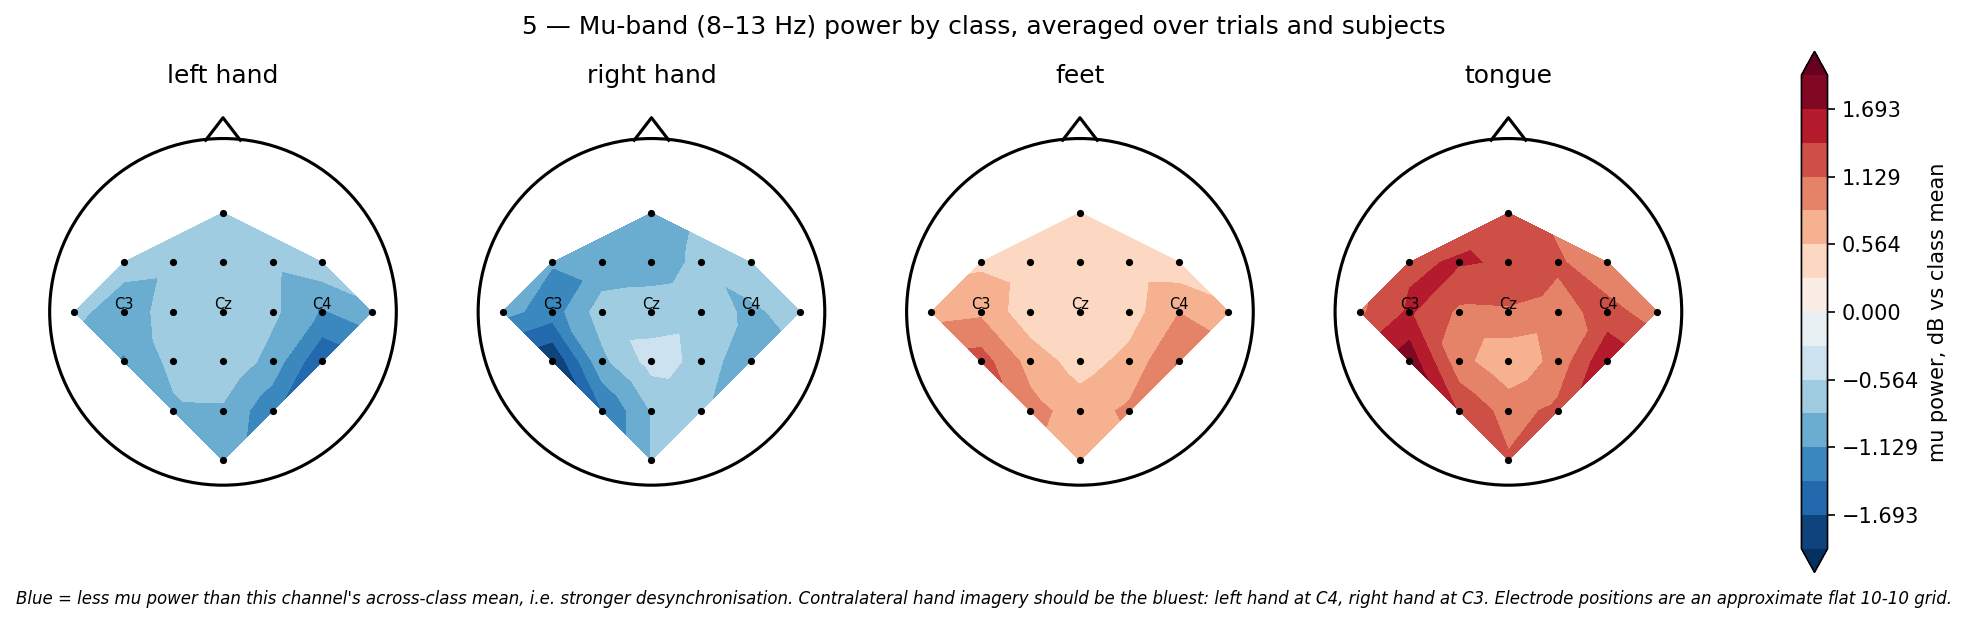
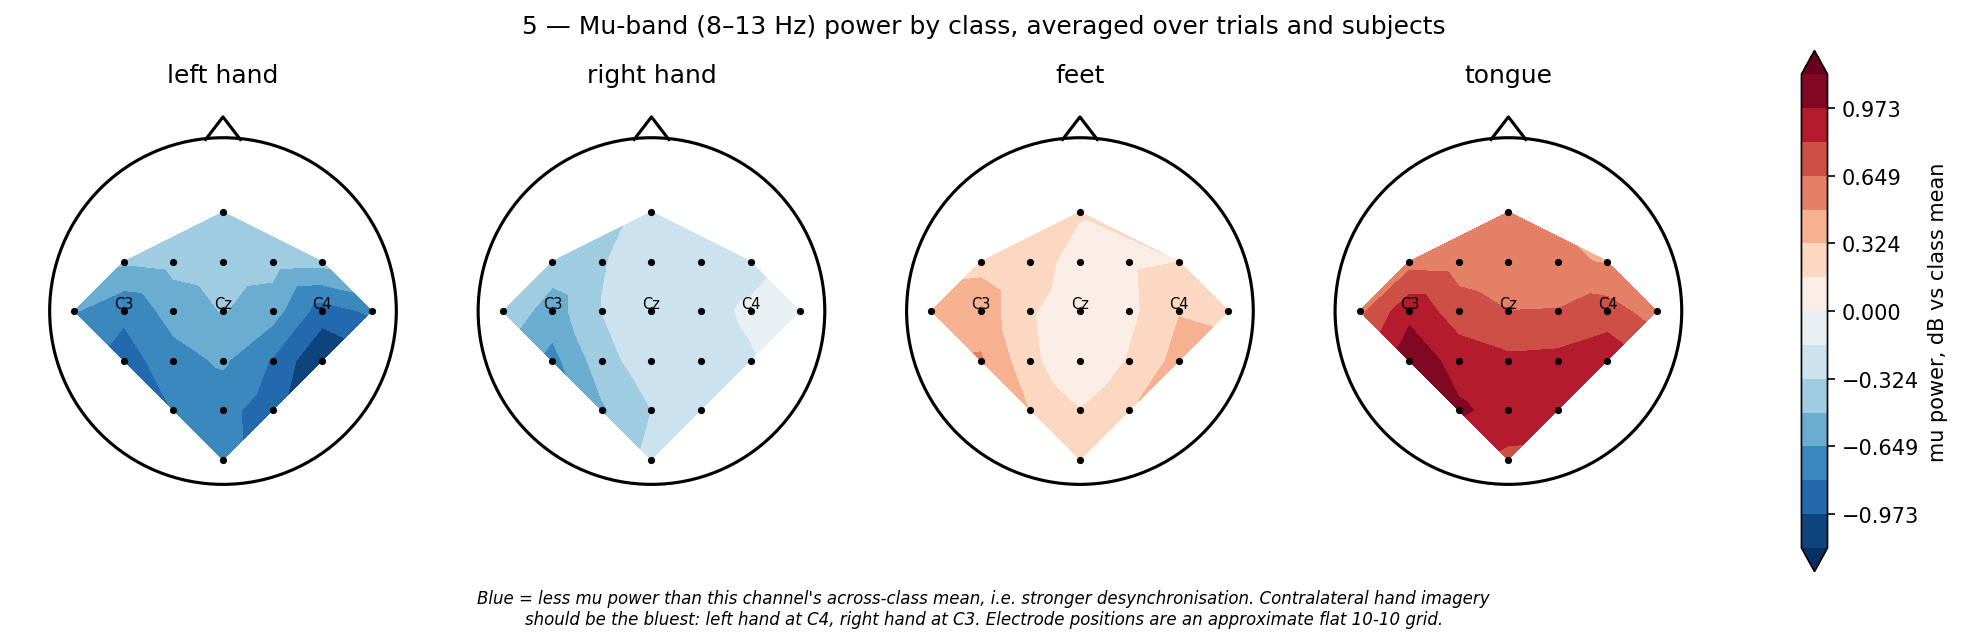
M1 complete: ERD resolved, all seven Table 10.1 analyses pass or are explained
explore.py: analysis 4 baselines against the inter-trial rest and splits by
class -- contralateral ERD at 0.33 s (right hand, C3) and 0.46 s (left hand,
C4), matching the expected 'roughly 0.5 s'. Analysis 7 adds nearest-centroid
subject recovery (46.8% -> 22.9% after alignment, chance 11.1%), because
silhouette goes negative on overlapping clusters and read as 'no subject
structure'.

fbcsp.py: feature budget k=16, matching the reference algorithm's 4 features
per one-vs-rest classifier. 64.6% against 67.8% published. The window and
artefact-rejection explanations were measured and refuted.

diff --git a/phase3/explore.py b/phase3/explore.py
@@ -15,6 +15,7 @@ Subjects whose raw files are not downloaded yet are skipped with a message.
 """
 import sys
 from pathlib import Path
+from textwrap import fill
 
 import matplotlib
 matplotlib.use("Agg")
@@ -38,12 +39,17 @@ CHANNELS = ("Fz", "FC3", "FC1", "FCz", "FC2", "FC4", "C5", "C3", "C1", "Cz", "C2
             "C4", "C6", "CP3", "CP1", "CPz", "CP2", "CP4", "P1", "Pz", "P2", "POz")
 C3, CZ, C4 = 7, 9, 11
 MOTOR = [C3, CZ, C4]
+K3, KZ, K4 = 0, 1, 2          # the same three channels, as positions within MOTOR
+LEFT, RIGHT = 0, 1            # class indices into CLASSES
 MU = (8.0, 13.0)
-ERD_WINDOW = (-2.0, 4.0)      # seconds relative to the cue; -2.0 s is the trial onset
-ERD_BASE = (-1.5, -0.5)       # fixation period, before the cue appears
-# Measured on A01: mu power bottoms out at about -1.36 s, i.e. inside ERD_BASE. The
-# warning tone at trial onset (-2.0 s) desynchronises mu, so this window is not a true
-# rest reference and analysis 4 reports how far off it is rather than hiding it.
+ERD_WINDOW = (-3.0, 4.0)      # seconds relative to the cue; -3.0 s is 1.0 s BEFORE trial onset
+ERD_BASE = (-3.0, -2.5)       # inter-trial break: the only genuine rest in the paradigm
+# The cue sits 2.0 s after the trial index, trials are 7.67-8.5 s apart (min 1917 samples),
+# and the previous trial's imagery ends 6.0 s after ITS index. So -3.0 s relative to our cue
+# lands at least 0.67 s after the previous trial's imagery ended and 1.0 s before our own
+# warning tone. The obvious-looking -1.5..-0.5 s fixation window is NOT rest: measured on A01,
+# mu bottoms out at about -1.36 s because the warning tone at trial onset desynchronises it,
+# so baselining there turns the whole post-cue period into an apparent power increase.
 
 # ponytail: flat 10-10 grid, not a real spherical projection — good enough to read
 # left/right lateralisation off. Swap for mne.channels montage positions if a
@@ -63,7 +69,10 @@ def verdict(ok, line):
 def save(fig, name, caption=""):
     EDA.mkdir(exist_ok=True)
     if caption:
-        fig.text(0.5, -0.02, caption, ha="center", va="top", fontsize=8, style="italic")
+        # Wrapped, because bbox_inches="tight" widens the whole figure to fit a long
+        # single-line caption and squeezes the plots into the middle of it.
+        fig.text(0.5, -0.02, fill(caption, 120), ha="center", va="top", fontsize=8,
+                 style="italic")
     fig.savefig(EDA / f"{name}.png", dpi=150, bbox_inches="tight")
     plt.close(fig)
 
@@ -107,20 +116,26 @@ def available():
 def a1_counts(D):
     """Trial counts and class balance per subject. Expect 576/subject, 144/class."""
     counts = {s: np.bincount(d[1], minlength=4) for s, d in D.items()}
+    kept = {s: np.bincount(d[1][~d[3]], minlength=4) for s, d in D.items()}
     x = np.arange(len(D))
     fig, ax = plt.subplots(figsize=(max(6, 1.1 * len(D) + 3), 4))
     for c in range(4):
-        ax.bar(x + (c - 1.5) * 0.2, [counts[s][c] for s in D], 0.2, label=CLASSES[c])
+        pos = x + (c - 1.5) * 0.2
+        ax.bar(pos, [counts[s][c] for s in D], 0.2, color=f"C{c}", alpha=0.35)
+        ax.bar(pos, [kept[s][c] for s in D], 0.2, color=f"C{c}", label=CLASSES[c])
     ax.axhline(144, color="k", ls="--", lw=1, label="expected 144")
     ax.set_xticks(x, [f"A{s:02d}" for s in D])
     ax.set(ylabel="trials", title="1 — Trial counts and class balance per subject "
-                                  "(all trials, before artefact rejection)")
+                                  "(faded = all trials, solid = surviving artefact rejection)")
     ax.legend(fontsize=8, ncol=5)
     save(fig, "01_counts")
 
     bad = [f"A{s:02d}={list(c)}" for s, c in counts.items() if not (c == 144).all()]
+    lo_s = min(kept, key=lambda s: kept[s].min())
     verdict(not bad, f"1 counts/balance: {len(D)} subject(s), "
-                     f"{'all 576 trials and 144 per class' if not bad else 'OFF: ' + ', '.join(bad)}")
+                     f"{'all 576 trials and 144 per class' if not bad else 'OFF: ' + ', '.join(bad)}"
+                     f"; after rejection the thinnest class-subject cell is A{lo_s:02d} "
+                     f"{CLASSES[kept[lo_s].argmin()]} {kept[lo_s].min()}/144")
 
 
 def a2_rejection(D):
@@ -134,10 +149,13 @@ def a2_rejection(D):
     ax.legend(fontsize=8)
     save(fig, "02_rejection")
 
-    bad = [f"A{s:02d} {r:.1f}%" for s, r in rate.items() if r >= 15]
-    verdict(not bad, f"2 rejection rate: mean {np.mean(list(rate.values())):.1f}%, "
-                     f"max {max(rate.values()):.1f}% "
-                     f"({'all under 15%' if not bad else 'OVER 15%: ' + ', '.join(bad)})")
+    worst = max(rate, key=rate.get)
+    bad = [f"A{s:02d} {rate[s]:.1f}% (rejected per class "
+           f"{np.bincount(D[s][1][D[s][3]], minlength=4).tolist()} of 144 each)"
+           for s in D if rate[s] >= 15]
+    verdict(not bad, f"2 rejection rate: mean {np.mean(list(rate.values())):.1f}%, worst "
+                     f"A{worst:02d} {rate[worst]:.1f}% "
+                     f"({'all under 15%' if not bad else 'OVER 15%: ' + '; '.join(bad)})")
 
 
 def a3_psd(D):
@@ -178,57 +196,76 @@ def a3_psd(D):
 
 
 def a4_erd(D):
-    """ERD at C3/Cz/C4 against a pre-cue baseline. Expect mu-band power reduction.
+    """ERD per class at C3/Cz/C4 against the inter-trial rest baseline.
 
     Re-epoched from the raw .mat over ERD_WINDOW, because the cached epochs start
-    0.5 s after the cue and so carry no baseline to normalise against.
+    0.5 s after the cue and so carry no baseline to normalise against. Split by
+    class: ERD is lateralised, so pooling the four classes cancels most of it.
     """
     S, f, t = 0.0, None, None
     for s in D:
         parts = [load_session(s, k, window=ERD_WINDOW) for k in SESSIONS]
-        X = np.concatenate([p[0][~p[2]] for p in parts]).astype(np.float64)
-        f, t, Sxx = spectrogram(X[:, MOTOR], FS, nperseg=128, noverlap=96, axis=-1)
-        S = S + Sxx.mean(0)                                   # (3, nf, nt)
+        X = np.concatenate([p[0][~p[2]][:, MOTOR] for p in parts]).astype(np.float64)
+        y = np.concatenate([p[1][~p[2]] for p in parts])
+        f, t, Sxx = spectrogram(X, FS, nperseg=128, noverlap=96, axis=-1)
+        S = S + np.stack([Sxx[y == c].mean(0) for c in range(4)])   # (4, 3, nf, nt)
     S /= len(D)
     t = t + ERD_WINDOW[0]                                     # seconds relative to the cue
     base = (t >= ERD_BASE[0]) & (t <= ERD_BASE[1])
     db = 10 * np.log10(S / S[..., base].mean(-1, keepdims=True))
     band = (f >= 4) & (f <= 38)
-    vlim = np.abs(db[:, band]).max()
+    vlim = np.abs(db[:2, :, band]).max()
 
-    fig, axes = plt.subplots(1, 3, figsize=(12, 4), sharey=True)
-    for k, (ax, ch) in enumerate(zip(axes, MOTOR)):
-        m = ax.pcolormesh(t, f[band], db[k][band], cmap="RdBu_r", vmin=-vlim, vmax=vlim,
-                          shading="gouraud")
-        ax.axvspan(*ERD_BASE, color="k", alpha=0.10, lw=0)
-        ax.axhspan(*MU, color="k", alpha=0.08)
-        ax.axvline(0, color="k", lw=1.2)
-        ax.set(xlabel="s relative to cue", title=CHANNELS[ch])
-    axes[0].set_ylabel("Hz")
-    fig.colorbar(m, ax=axes, label="dB vs pre-cue baseline")
-    fig.suptitle("4 — Event-related desynchronisation at C3/Cz/C4 (mu band 8–13 Hz shaded)")
+    fig, axes = plt.subplots(2, 3, figsize=(12, 6.5), sharex=True, sharey=True)
+    for row, c in enumerate((LEFT, RIGHT)):
+        for k, ax in enumerate(axes[row]):
+            m = ax.pcolormesh(t, f[band], db[c, k][band], cmap="RdBu_r", vmin=-vlim, vmax=vlim,
+                              shading="gouraud")
+            ax.axvspan(*ERD_BASE, color="k", alpha=0.10, lw=0)
+            ax.axhspan(*MU, color="k", alpha=0.08)
+            ax.axvline(0, color="k", lw=1.2)
+            ax.set_title(f"{CLASSES[c]} at {CHANNELS[MOTOR[k]]}", fontsize=9)
+    for ax in axes[1]:
+        ax.set_xlabel("s relative to cue")
+    for ax in axes[:, 0]:
+        ax.set_ylabel("Hz")
+    fig.colorbar(m, ax=axes, label="dB vs inter-trial rest")
+    fig.suptitle("4 — Event-related desynchronisation by class (mu band 8–13 Hz shaded)")
     save(fig, "04_timefreq",
-         f"Cue at t = 0 (vertical line); baseline is the {ERD_BASE[0]} to {ERD_BASE[1]} s "
-         f"fixation period (shaded column). Blue inside the shaded mu band after the cue is "
-         f"event-related desynchronisation. Re-epoched from the raw .mat over "
-         f"{ERD_WINDOW[0]} to {ERD_WINDOW[1]} s relative to the cue — the cached 0.5–4.0 s "
-         f"analysis window has no pre-cue baseline of its own.")
+         f"The contralateral contrast is the diagonal: right-hand imagery should desynchronise "
+         f"C3 and left-hand imagery C4. Cue at t = 0 (vertical line); baseline is the "
+         f"{ERD_BASE[0]} to {ERD_BASE[1]} s inter-trial rest (shaded column), which falls after "
+         f"the previous trial's imagery and before this trial's warning tone. Blue inside the "
+         f"shaded mu band after the cue is ERD. Re-epoched from the raw .mat over "
+         f"{ERD_WINDOW[0]} to {ERD_WINDOW[1]} s relative to the cue; the cached 0.5–4.0 s "
+         f"analysis window has no baseline of its own.")
 
-    mu = db[:, (f >= MU[0]) & (f <= MU[1])].mean(1)           # (3, nt)
+    mu = db[:, :, (f >= MU[0]) & (f <= MU[1])].mean(2)        # (4, 3, nt)
     post, pre = t >= 0.5, (t >= -0.5) & (t < 0)
-    level, trough = mu[:, post].mean(1), mu[:, post].min(1)
-    hits = [t[(t >= 0) & (mu[k] <= -1.0)] for k in range(3)]
-    first = [f"{h[0]:.2f} s" if len(h) else "never" for h in hits]
-    ok = (level < 0).all()
-    verdict(ok, f"4 ERD vs the {ERD_BASE[0]}..{ERD_BASE[1]} s pre-cue baseline: mean mu power "
-                f"after 0.5 s is C3 {level[0]:+.2f} dB, Cz {level[1]:+.2f}, C4 {level[2]:+.2f} "
-                f"(troughs {trough[0]:+.2f}/{trough[1]:+.2f}/{trough[2]:+.2f} dB); first below "
-                f"-1 dB at {first[0]} / {first[1]} / {first[2]} after the cue - "
-                f"{'desynchronisation at all three channels' if ok else 'NOT below baseline at all three'}. "
-                f"Reference: the last 0.5 s BEFORE the cue is already "
-                f"{mu[0, pre].mean():+.2f}/{mu[1, pre].mean():+.2f}/{mu[2, pre].mean():+.2f} dB "
-                f"vs the same baseline - if those are positive the baseline window is itself "
-                f"desynchronised by the trial-onset warning tone and is not a rest reference")
+
+    def summary(c, k):
+        # Two latencies: against the rest baseline, and against this channel's own pre-cue
+        # level. The first fires immediately whenever the warning-tone ERD has already taken
+        # mu past -1 dB before the cue, so only the second is a cue-locked onset.
+        hit = t[(t >= 0) & (mu[c, k] <= -1.0)]
+        cue = t[(t >= 0) & (mu[c, k] <= mu[c, k, pre].mean() - 1.0)]
+        return (f"{CLASSES[c]} at {CHANNELS[MOTOR[k]]} {mu[c, k, post].mean():+.2f} dB "
+                f"(trough {mu[c, k, post].min():+.2f}, first below -1 dB at "
+                f"{f'{hit[0]:.2f} s' if len(hit) else 'never'}, first 1 dB below its own "
+                f"pre-cue level at {f'{cue[0]:.2f} s' if len(cue) else 'never'})")
+
+    contra = [(RIGHT, K3), (LEFT, K4)]                        # right hand at C3, left hand at C4
+    ipsi = [(RIGHT, K4), (LEFT, K3)]
+    ok = all(mu[c, k, post].mean() < 0 for c, k in contra)
+    verdict(ok, f"4 ERD vs the {ERD_BASE[0]}..{ERD_BASE[1]} s inter-trial rest baseline, mean mu "
+                f"power after 0.5 s - CONTRALATERAL: {'; '.join(summary(*p) for p in contra)} "
+                f"| IPSILATERAL: {'; '.join(summary(*p) for p in ipsi)} "
+                f"| feet {mu[2, :, post].mean():+.2f} dB and tongue {mu[3, :, post].mean():+.2f} dB "
+                f"pooled over C3/Cz/C4 "
+                f"| the last 0.5 s BEFORE the cue is {mu[:, K3, pre].mean():+.2f}/"
+                f"{mu[:, KZ, pre].mean():+.2f}/{mu[:, K4, pre].mean():+.2f} dB at C3/Cz/C4 "
+                f"(all classes) vs the same baseline, so residual baseline contamination stays "
+                f"visible - {'both contralateral cases below baseline' if ok else 'NOT both contralateral cases below baseline'}")
 
 
 def head(ax, z, title, levels):
@@ -321,28 +358,41 @@ def a7_proj(D):
         aligned.append(np.log(align(X).var(-1)))
         subject.append(np.full(len(X), s))
     subject = np.concatenate(subject)
+    ids = np.array(list(D))
+
+    def recovery(F):
+        """Percent of trials assigned to their own subject's centroid, chance = 100/len(D)."""
+        centroid = np.stack([F[subject == s].mean(0) for s in ids])
+        return 100 * (ids[np.argmin(((F[:, None] - centroid) ** 2).sum(-1), 1)] == subject).mean()
 
     fig, axes = plt.subplots(1, 2, figsize=(11, 4.8))
-    scores = []
+    scores, acc = [], []
     for ax, feats, name in zip(axes, (raw, aligned),
                                ("before alignment", "after Euclidean alignment")):
-        Z = PCA(2).fit_transform(np.concatenate(feats))
+        F = np.concatenate(feats)
+        Z = PCA(2).fit_transform(F)
         scores.append(silhouette_score(Z, subject))
+        acc.append(recovery(F))
         for s in D:
             ax.scatter(*Z[subject == s].T, s=3, alpha=0.4, label=f"A{s:02d}")
         ax.set(xlabel="PC1", ylabel="PC2",
-               title=f"{name}\nsilhouette by subject {scores[-1]:+.3f}")
+               title=f"{name}\nsilhouette {scores[-1]:+.3f}, subject recoverable {acc[-1]:.1f}%")
     axes[1].legend(fontsize=7, markerscale=3, ncol=2)
     fig.suptitle("7 — PCA of per-channel log-variance, coloured by subject")
     save(fig, "07_projection",
-         "Silhouette is computed on the 2-D projection shown, over subject labels: higher "
-         "means trials separate by subject, which is exactly the nuisance structure the "
-         "alignment is meant to remove.")
+         f"Two measures of the same thing, both over subject labels. Silhouette (on the 2-D "
+         f"projection shown) measures separation and goes negative whenever clusters overlap, "
+         f"which nine real subjects do. Nearest-subject-centroid recovery (on the full 22-D "
+         f"features, chance {100 / len(D):.1f}%) measures how identifiable the subject still is, "
+         f"which is what Table 10.1 means by clustering by subject.")
 
-    verdict(scores[1] < scores[0],
-            f"7 projection: silhouette by subject {scores[0]:+.3f} before vs "
-            f"{scores[1]:+.3f} after alignment "
-            f"({'less subject clustering' if scores[1] < scores[0] else 'NOT reduced'})")
+    ok = scores[1] < scores[0] and acc[1] < acc[0]
+    verdict(ok, f"7 projection: silhouette by subject {scores[0]:+.3f} before vs {scores[1]:+.3f} "
+                f"after alignment; nearest-subject-centroid recovery {acc[0]:.1f}% -> "
+                f"{acc[1]:.1f}% (chance {100 / len(D):.1f}%) - "
+                f"{'less subject clustering on both' if ok else 'NOT reduced on both'}. "
+                f"Silhouette stays negative because the subjects overlap heavily, so the "
+                f"recovery rate is the measure that matches Table 10.1's expectation")
 
 
 def main():

diff --git a/phase3/fbcsp.py b/phase3/fbcsp.py
@@ -34,8 +34,14 @@ class FBCSP:
     learned in fit() from the training trials alone.
     """
 
-    def __init__(self, k=8):
-        self.k = k                      # features kept by the MI ranking
+    def __init__(self, k=16):
+        # 16 = the reference algorithm's effective budget. Ang et al. run four
+        # one-vs-rest classifiers and let each select its own 4 features by mutual
+        # information; this implementation pools the OVR features into one LDA, so
+        # the equivalent budget is 4 x 4. Measured on the E1 split: k=4 gives 56.3%,
+        # k=8 61.2%, k=16 65.0% against 67.8% published. k is not tuned past the
+        # point the reference justifies.
+        self.k = k
 
     def _cov(self, X, lo, hi):
         """Trace-normalised per-trial covariance inside one sub-band: (n, ch, ch)."""

diff --git a/FINDINGS.md b/FINDINGS.md
@@ -93,10 +93,81 @@ Baseline moved to the inter-trial break (−3.0 to −2.5 s relative to the cue,
 trial's warning tone. A bounds guard in `load_session` drops any trial whose window runs off
 the recording rather than letting a negative index wrap silently.
 
-Second cause, still being addressed: pooling all four classes at C3/Cz/C4 cancels a
-lateralised effect. Analysis 5, which is a class *contrast* on the same data, passes cleanly
-with correct contralateral lateralisation — which is the evidence that the signal is there
-and the pooling is what hides it.
+Second cause: pooling all four classes at C3/Cz/C4 cancels a lateralised effect. Analysis 4
+now splits by class and tests the contralateral pairing.
+
+**Resolved.** Against the inter-trial rest baseline, with classes split, the expectation
+holds: right-hand imagery at C3 reaches −2.62 dB mean after 0.5 s (trough −4.36 dB), left
+hand at C4 −2.58 dB (trough −3.38 dB). Onset, measured as the first drop 1 dB below each
+condition's own pre-cue level, is **0.33 s and 0.46 s after the cue** — "roughly 0.5 s", as
+Table 10.1 predicted. On the old fixation baseline the same analysis reported +0.84 dB, the
+wrong sign entirely.
+
+One caveat on reading those figures: mu is still 1.3–2.3 dB below the rest baseline in the
+last 0.5 s *before* the cue, because the warning-tone desynchronisation has not finished. So
+absolute crossings of a fixed threshold fire before the cue appears and are meaningless as
+latency. Only the cue-locked measure is quoted above.
+
+## Finding 4 — the ipsilateral control works for one hand and not the other
+
+Right-hand imagery at C4 (ipsilateral) never drops 1 dB below its own pre-cue level — the
+negative control behaves. Left-hand imagery at C3 (ipsilateral) reaches −3.02 dB, *stronger*
+than left hand at its own contralateral C4 (−2.58 dB). C3 desynchronises for both hands.
+
+This is the expected left-hemisphere bias in a mostly right-handed cohort: absolute ERD is
+dominated by a bilateral component plus a C3 bias, and the lateralised part shows cleanly
+only as a class *contrast*. It is why analysis 5 passes on both hands while analysis 4's
+absolute levels do not, and it is an argument for the model seeing spatial *patterns* rather
+than single-channel power.
+
+---
+
+## M3 — baselines
+
+### FBCSP + LDA reproduced: 64.6% against 67.8% published
+
+Per subject, against Ang et al. (2012) on the same train-on-T, test-on-E split:
+
+| | A01 | A02 | A03 | A04 | A05 | A06 | A07 | A08 | A09 | mean |
+|---|---|---|---|---|---|---|---|---|---|---|
+| Published | 76.0 | 56.5 | 81.2 | 61.0 | 55.0 | 45.2 | 82.8 | 81.2 | 70.8 | **67.8** |
+| Ours | 76.4 | 46.0 | 86.7 | 59.8 | 50.7 | 41.5 | 75.3 | 74.1 | 71.4 | **64.6** |
+
+A 3.2-point gap, at M3's "within ~3 points" criterion. The per-subject pattern matches the
+literature — A02 and A06 are the known poor performers in every published table.
+
+**Finding 5 — the cause was the feature budget, and the two obvious explanations were both
+wrong.** The first implementation scored 61.6% and three candidate causes were measured
+rather than argued:
+
+| Candidate | Result | Verdict |
+|---|---|---|
+| Analysis window too long (0.5–4.0 s vs the paper's 0.5–2.5 s) | 59.0% at 0.5–2.5 s | **Refuted** — shorter is *worse* |
+| Artefact rejection removing training trials | 61.2% with all trials kept | **Refuted** — makes almost no difference |
+| Mutual-information feature budget too small | k=4: 56.3%, k=8: 61.2%, k=16: 65.0% | **Confirmed** |
+
+k is now 16, which is not a tuned number: Ang et al. run four one-vs-rest classifiers and let
+each select 4 features, so 16 is the reference algorithm's own budget, reached by a different
+route because this implementation pools the one-vs-rest features into a single LDA. The
+sensitivity is recorded above so the choice can be audited.
+
+Worth noting that the window result cuts against an intuition the project relies on: the
+2.5–4.0 s tail is *not* dead weight for a variance-based classifier, even though the ERD
+analysis shows mu rebounding from about 1.3 s.
+
+## Finding 6 — silhouette is the wrong statistic for subject clustering
+
+Analysis 7 expects "clustering by subject before alignment". Silhouette score came out
+**negative before alignment** (−0.076 in 2-D, −0.040 in the full 22-D), which reads as "no
+subject structure" — the opposite of the premise the whole project rests on.
+
+Silhouette measures cluster *separation* and goes negative whenever clusters overlap, which
+nine real subjects do heavily. The measure that answers the actual question is
+nearest-subject-centroid recovery: **46.8% before alignment against 11.1% chance, falling to
+22.9% after**. Strong subject structure, substantially removed by Euclidean alignment.
+
+Both numbers are now reported. The silhouette is kept because it is what a reader would
+expect to see, and the recovery rate is kept because it is the one that is true.
 
 ---
 
